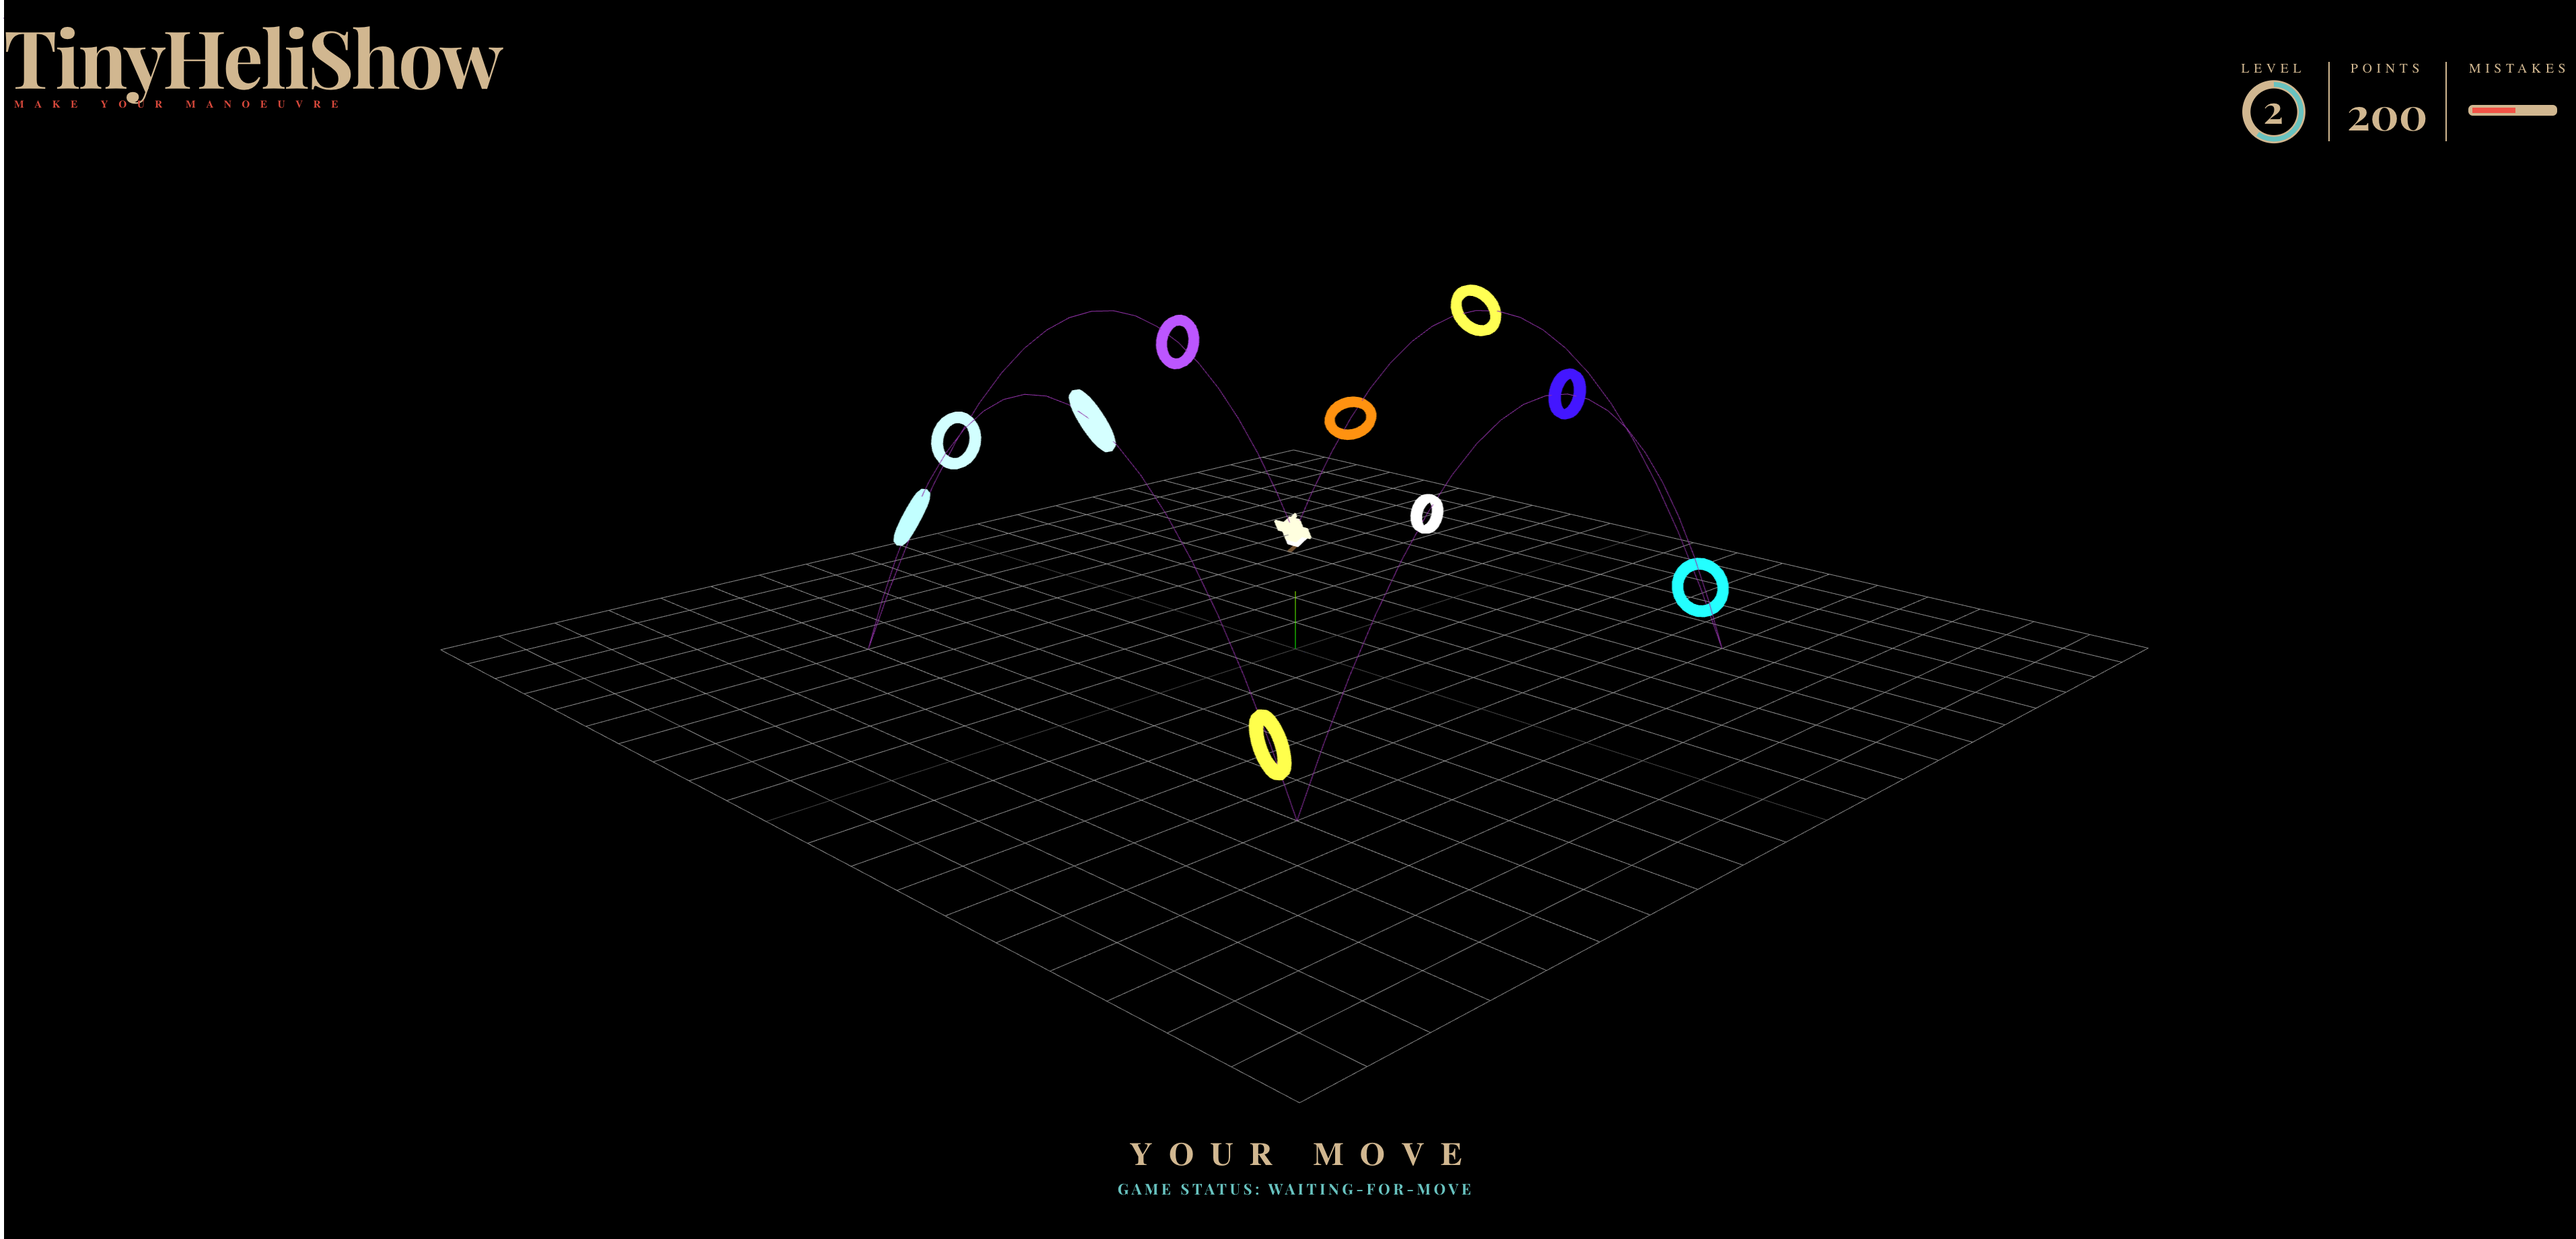
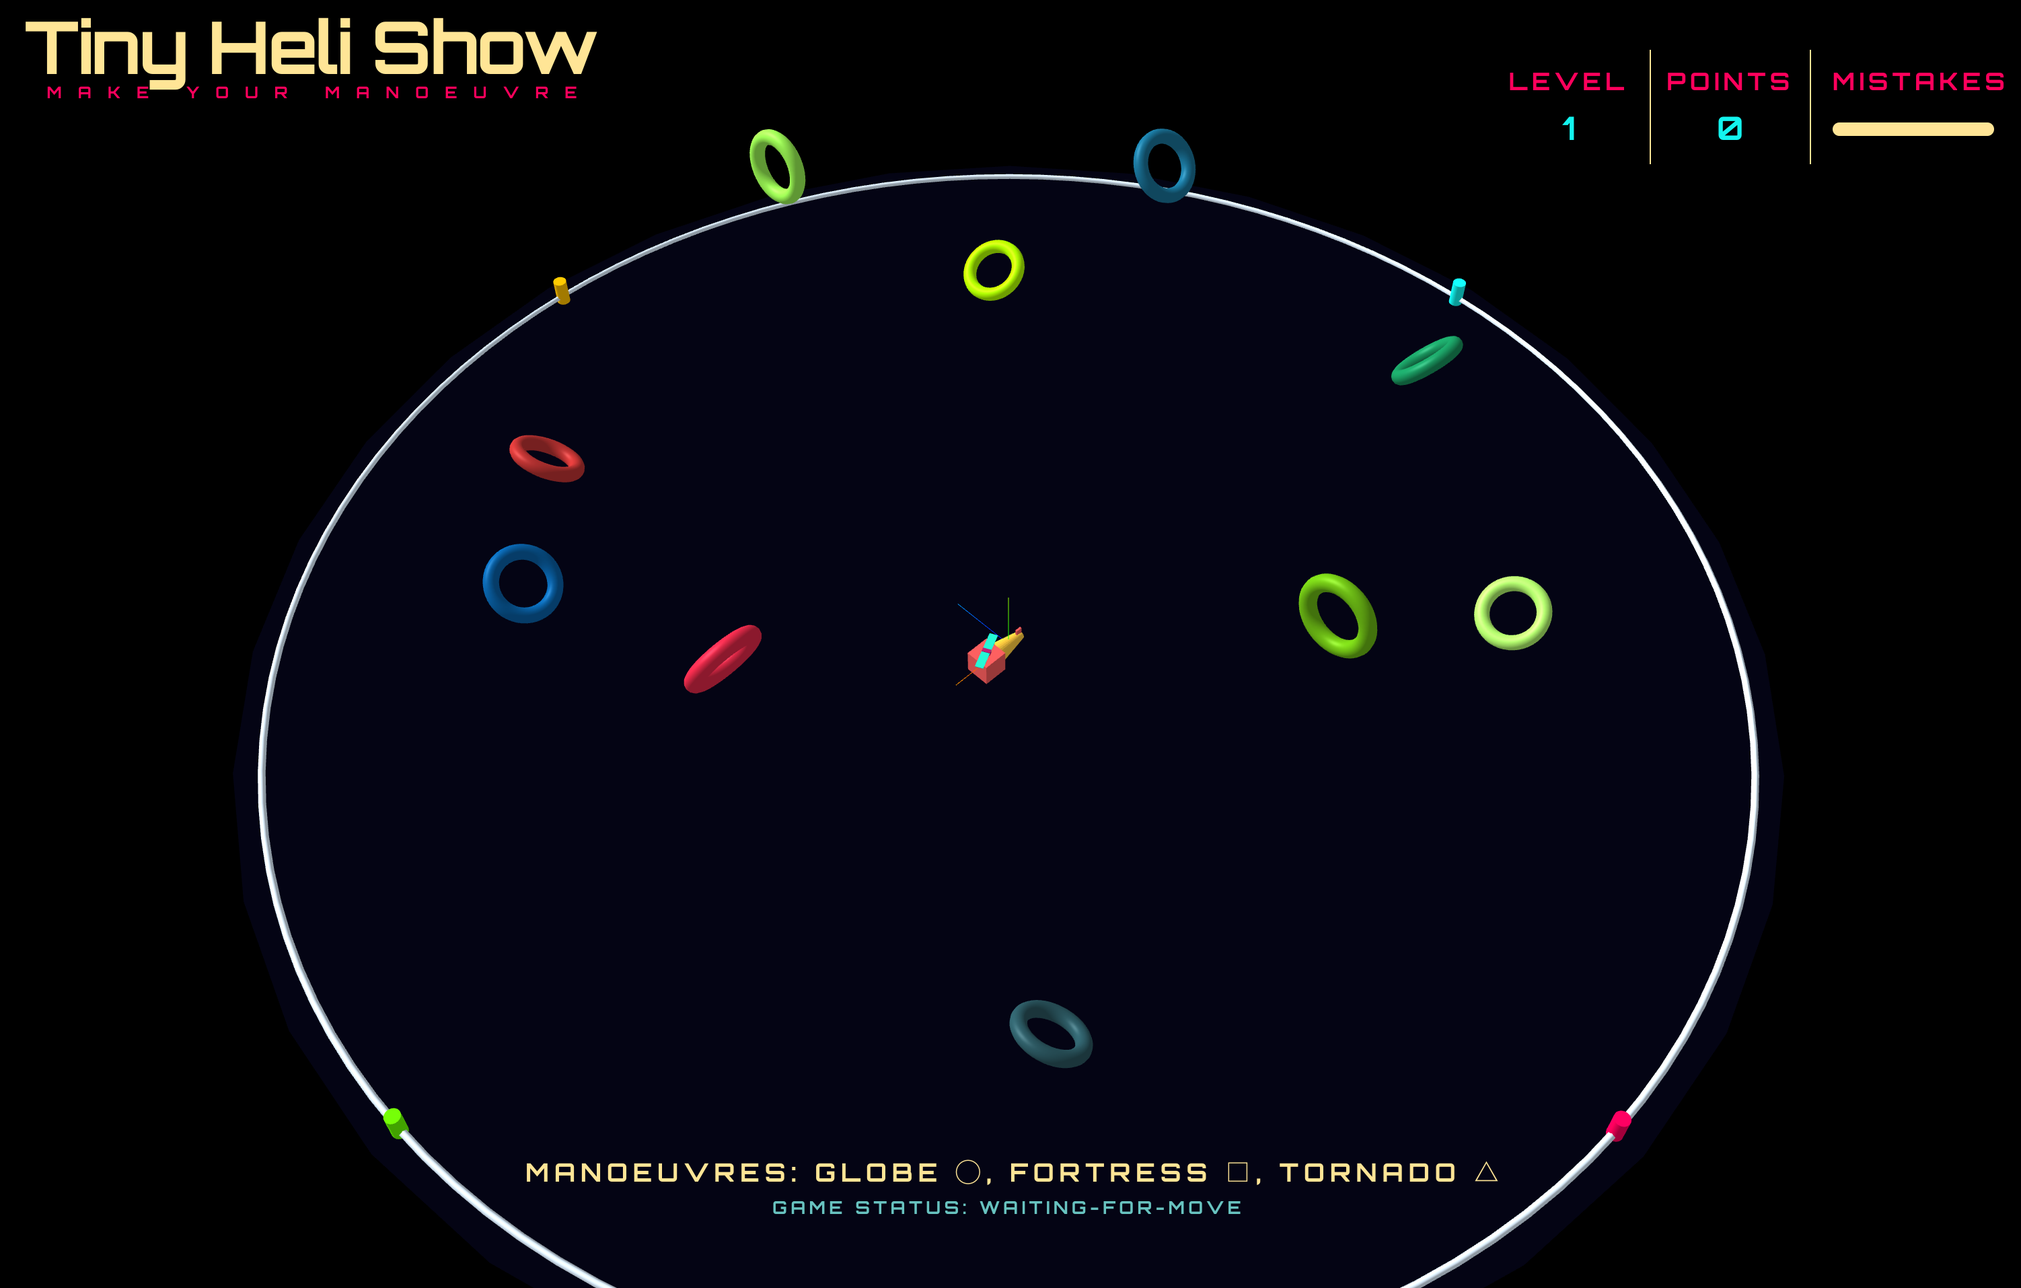
full commit

diff --git a/web/src/three_world/world.js b/web/src/three_world/world.js
@@ -1,12 +1,11 @@
 import { createCamera } from './components/camera.js';
 import { createCube, createMarkerCubes } from './components/cube.js';
-import { createArrow } from './components/arrow.js';
 import { createLights, createLights2 } from './components/lights.js';
 import { createScene } from './components/scene.js';
 import { Game } from './components/Game.js';
 import { fetchCurvePath, createDisplayPath } from './components/path.js';
 import { createHeliCopter, setupManoeuvre } from './components/helicopter.js';
-import { createRing, createRingsArray } from './components/ring.js';
+import { createPlatformRing, createRing, createRingsArray } from './components/ring.js';
 import { SceneKeeper } from './systems/SceneKeeper.js';
 import { createAxesHelper } from './components/axesHelper.js';
 import { createGridHelper } from './components/GridHelper.js';
@@ -14,10 +13,7 @@ import { createControls } from './systems/controls.js';
 import { createRenderer } from './systems/renderer.js';
 import { Resizer } from './systems/Resizer.js';
 import { Loop } from './systems/Loop.js';
-// import { FSM } from './systems/FSM.js';
-import { Plane } from 'three';
-// import { createFatLine } from './components/fatline.js';
-import * as THREE from 'three'; 
+import * as THREE from 'three';
 //NewAdd
 import { setupGUI } from './components/gui.js';
 
@@ -36,13 +32,7 @@ let sceneKeeper;
 // GAME VARIABLES
 let game;
 let heliCopter;
-//let pointsPath;
-//et displayPath;
 
-//let prevHeliCopter;
-//let prevCurvePath;
-//let prevDisplayPath;
-// let ring;
 
 function setupWorld(container, fLevel, fPoints, bMistakes, mReplay, iStatus) {
 
@@ -71,15 +61,30 @@ function setupWorld(container, fLevel, fPoints, bMistakes, mReplay, iStatus) {
     scene.add(light2);
 
     //Experimental add
-    const geometry = new THREE.CircleGeometry( 10, 32 );
+    const geometry = new THREE.CircleGeometry(10.4, 32);
+    /*
+    const geometry = new THREE.CylinderGeometry(10.4, 10.4, .2, 32);
+    const texture = new THREE.TextureLoader().load('grass.jpg');
+    const material = new THREE.MeshBasicMaterial({
+        color: 0xFF8844,
+        map: texture,
+        side: THREE.DoubleSide,
+    });
+    */
+
     const material = new THREE.MeshBasicMaterial({ color: 0x040414, side: THREE.DoubleSide });
-    const plane = new THREE.Mesh(geometry, material);
-    plane.translateY(-.2);
-    plane.rotateX(Math.PI/2);
-    scene.add(plane);
+
+    const platformPlane = new THREE.Mesh(geometry, material);
+    platformPlane.translateY(-.2);
+    platformPlane.rotateX(Math.PI / 2);
+    platformPlane.receiveShadow = true;
+    scene.add(platformPlane);
+
+    const platformRing = createPlatformRing();
+    scene.add(platformRing);
 
     const directionCubes = createMarkerCubes();
-    for (let i = 0, l=directionCubes.length; i<l; i++){
+    for (let i = 0, l = directionCubes.length; i < l; i++) {
         scene.add(directionCubes[i]);
         console.log("Added", i);
     }
@@ -114,66 +119,13 @@ function stop() {
     game.stopGame();
 }
 
-//ONLY CHANGE required in this and integrated version: Toggle next two lines
+
+//Comment #if(myfirstjs)
+//Uncomment #if(tinyhelishow)
 export default {setupWorld, triggerShape, start, stop};
+export {scene, heliCopter};
 
-export {scene, heliCopter };
+//Uncomment #if(myfirstjs)
+//Comment #if(tinyhelishow)
+// export { setupWorld, triggerShape, start, stop, scene, heliCopter };
 
-//export {scene, heliCopter};
-
-
-
-/*
-function startGame() {
-    //Initialize the Game variables
-    // game.state = "starting";
-    resetGame();
-    loop.start(game);
-    setupPuzzle(1);
-    game.state = "waiting-for-move";
-}
-
-function moveGameForward() {
-
-    console.log("Moving Game Forward");
-    // loop.updatables.pop();
-    //temporarily using this code below 3 lines. To be changed very soon.
-    resetGame();
-    //setupPuzzle(0);
-    game.state = "waiting-for-move";
-
-}
-
-
-
-function stopGame() {
-    //Initialize the Game variables
-    game.state = "game-over";
-    loop.stop();
-}
-
-//Not used here anymore
-function render() {
-    // draw a single frame
-    renderer.render(scene, camera);
-}
-
-
-*/
-
-
-/*
-       waitforMove();
-       function waitforMove() {
-           if (game.getState !== "move-over"){
-               setTimeout(waitforMove, 50); //50 msc waith and then check
-           }
-       }
-       */
-        // loop.updatables.pop();
-
-
-// export default {World};
-
-// export interface
-// export default {    World, triggerShape, setup, load,};

diff --git a/web/src/three_world/components/cube.js b/web/src/three_world/components/cube.js
@@ -4,12 +4,14 @@ import {
     MathUtils,
     Mesh,
     MeshStandardMaterial,
-    MeshPhongMaterial
+    MeshPhongMaterial,
+    CylinderGeometry,
+    ConeGeometry
 } from 'three';//'/node_modules/three/build/three.module.js';
 
 function createCube() {
     // create a geometry
-    const geometry = new BoxGeometry(.5, .2, .5);
+    const geometry = new BoxGeometry(.3, .2, .5);
     
     // Switch the old "basic" material to
     // a physically correct "standard" material
@@ -40,25 +42,64 @@ function createCube() {
     return cube;
 }
 
+function createCubeC() {
+    // create a geometry
+    //const geometry = new BoxGeometry(.5, .2, .5);
+    const geometry = new CylinderGeometry( .1, .1, .4, 32 );
+    // const geometry = new ConeGeometry( .25, .4, 32 );
+    
+    // Switch the old "basic" material to
+    // a physically correct "standard" material
+    // const material = new MeshStandardMaterial({ color: 'purple' });
+    const material = new MeshPhongMaterial();
+    
+
+    // create a Mesh containing the geometry and material
+    const cube = new Mesh(geometry, material);
+   
+    
+    //initial orientation
+    // cube.rotation.set(-0.5, -0.1, 0.8);
+    cube.translateZ(.1);
+    
+
+    const radiansPerSecond = MathUtils.degToRad(30);
+
+    // this method will be called once per frame
+    
+    cube.tick = (delta) => {
+        // increase the cube's rotation each frame
+        cube.rotation.z += radiansPerSecond * delta;
+        cube.rotation.x += radiansPerSecond * delta;
+        cube.rotation.y += radiansPerSecond * delta;
+    };
+
+    return cube;
+}
+
 //Create four maker Cubes to indicate four directions of the platform
 function createMarkerCubes() {
 
     let cubeArray = [];
 
-    let cubeN = createCube();
-    let cubeE = createCube();
-    let cubeW = createCube();
-    let cubeS = createCube();
+    let cubeN = createCubeC();
+    let cubeE = createCubeC();
+    let cubeW = createCubeC();
+    let cubeS = createCubeC();
 
-    cubeN.material.color.setHex(0x68FF00);
-    cubeE.material.color.setHex(0xFFBF00);
-    cubeW.material.color.setHex(0x13F4EF);
-    cubeS.material.color.setHex(0xFF005C);
+    cubeN.material.color.setHex(0x68FF00); //Green
+    cubeE.material.color.setHex(0xFFBF00); //Yellow
+    cubeW.material.color.setHex(0x13F4EF); //Pink
+    cubeS.material.color.setHex(0xFF005C); //Cyan
     
     cubeN.position.set(10,0,0);
     cubeE.position.set(0,0,10);
     cubeW.position.set(-10,0,0);
     cubeS.position.set(0,0,-10);
+
+    //cubeE.rotateX(Math.PI/2);
+    //cubeS.rotateY (-Math.PI/2);
+
 
     cubeArray.push(cubeN, cubeE, cubeW, cubeS);
 

diff --git a/web/src/three_world/components/ring.js b/web/src/three_world/components/ring.js
@@ -25,8 +25,10 @@ function createRing() {
     //material.flatShading = true;
     // create a Mesh containing the geometry and material
     const ring = new Mesh(ringGeometry, material);
+    ring.castShadow = true;
+    ring.receiveShadow = true;
 
-    console.log(ringGeometry.parameters);
+    // console.log(ringGeometry.parameters);
 
 
     //ring.translateX (-1);
@@ -55,6 +57,39 @@ function createRing() {
     return ring;
 
 }
+
+//Create a ring on the periphery of the platform
+function createPlatformRing(){
+
+    const radius = 10;
+    const tubeRadius = .05;
+    const radialSegments = 4;
+    const tubularSegments = 120;
+    const ringGeometry = new TorusGeometry(radius, tubeRadius, radialSegments, tubularSegments);
+    
+    const material = new MeshPhongMaterial({ color:  0xedff0ff });
+    const ring = new Mesh(ringGeometry, material);
+    ring.castShadow = true;
+    ring.receiveShadow = true;
+
+    // console.log(ringGeometry.parameters);
+
+    ring.rotateX(-Math.PI/2);
+    ring.translateZ(-.1);
+    
+    const radiansPerSecond = MathUtils.degToRad(30);
+
+    // this method will be called once per frame
+    ring.tick = (delta) => {
+        // increase the ring's rotation each frame
+        ring.rotation.z += radiansPerSecond * delta;
+        ring.rotation.x += radiansPerSecond * delta;
+        ring.rotation.y += radiansPerSecond * delta;
+    };
+
+    return ring;
+}
+
 
 // Creates specified number of rings, randomly distributed on the given path
 function createRingsArray(curvePath, noOfPoints) {
@@ -148,7 +183,7 @@ function createHeliRing() {
     
     //const material = new MeshPhongMaterial({ color: Math.random() * 0xffffff });
     
-
+    //These methods won't work because ring is not initialized.
 
     //ring.translateX (-1);
     //ring.translateY (1.2);
@@ -158,7 +193,7 @@ function createHeliRing() {
     // ring.position.y = Math.random() * 10 - 4;
     // ring.position.z = Math.random() * 10 - 4;
 
-    //ring.rotateY(-Math.PI/2);
+    // ring.rotateX(-Math.PI/2);
     // ring.rotation.set(-0.5, -0.1, 0.8);
     // ring.rotation.set(Math.random() * -1, Math.random() * -1 , Math.random() * 1);
 
@@ -168,4 +203,4 @@ function createHeliRing() {
 
 }
 
-export { createRing, createRingsArray, createHeliRing }
+export { createRing, createRingsArray, createPlatformRing, createHeliRing }
